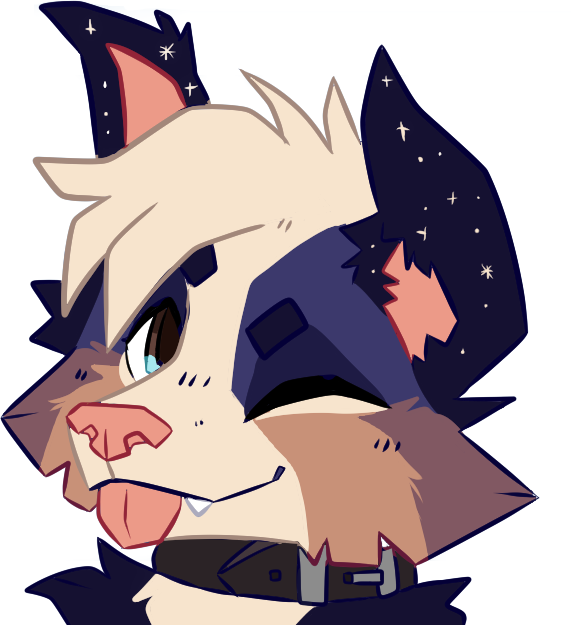
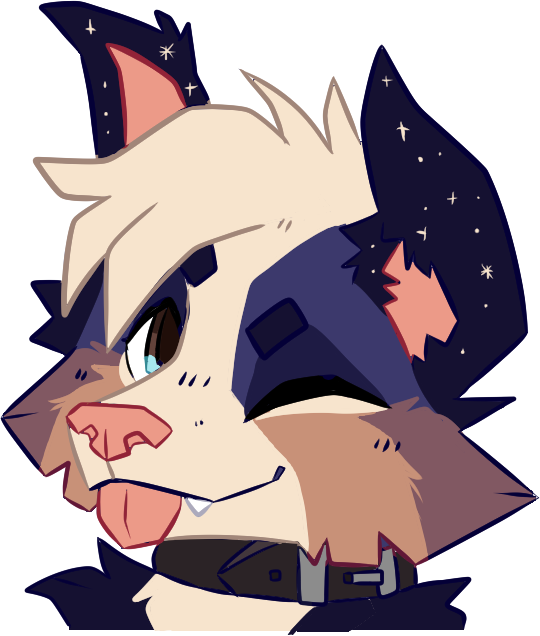
adds start menu and nsfw links

diff --git a/index.html b/index.html
@@ -21,15 +21,16 @@
 
     <span id='bottombar'>
         <span class="zooped">
-            <span class="start">START</span>
+            <a href="#startwindow" style="text-decoration: none">
+                <span class="start">START</span>
+            </a>
         </span>
     </span>
 
     <div id='container'>
 
-
         <div class="window" id="head" onmousedown='mydragg.startMoving(this,"container",event);' onmouseup='mydragg.stopMoving("container");'>
-            <div class="toolbar"><span class="title">HEADSHOT.PNG</span><a style="text-decoration: none;" href="#container"><span class="close">⨯</span></a></div>
+            <div class="toolbar"><span class="title" style="text-decoration: none">HEADSHOT.PNG</span><a style="text-decoration: none;" href="#container"><span class="close">⨯</span></a></div>
             <div class="content">
                 <img class="headimg" src="head.png" alt="">
             </div>
@@ -102,7 +103,13 @@
             <div class="toolbar"><span class="title">NSFW</span><a style="text-decoration: none;" href="#container"><span class="close">⨯</span></a></div>
             <div class="content">
                 <p>
-                    nsfw refs
+                    links to NSFW reference sheets on furAffinity
+                </p>
+                <p class="nsfwrefs">
+                    <a href="https://www.furaffinity.net/view/46474968/" style="padding-right: 5%"><img class="iconimg" src="link.png" alt="" style="display: linline"></a> masculine reference sheet
+                </p>
+                <p class="nsfwrefs">
+                    <a href="https://www.furaffinity.net/view/46474990/" style="padding-right: 5%"><img class="iconimg" src="link.png" alt="" style="display: linline; padding-right: 5%"></a> feminine reference sheet
                 </p>
                 
             </div>
@@ -124,6 +131,26 @@
             </div>
         </div>
 
+        <div class="window" id="startwindow">
+            <div class="toolbar"><span class="title">START</span><a style="text-decoration: none;" href="#container"><span class="close">⨯</span></a></div>
+                <div class="startmenu">
+                    <a href="https://twitter.com/kepwoof" class="startitem">
+                        <img src="web.png" class="iconimg" style="padding-right: 10%;"><p>twitter</p>
+                    </a>
+                    <a href="https://twitter.com/after_darker_" class="startitem">
+                        <img src="web-lock.png" class="iconimg" style="padding-right: 10%"><p>twitter AD</p>
+                    </a>
+                    <a href="https://t.me/kepwoof" class="startitem">
+                        <img src="phone.png" class="iconimg" style="padding-right: 10%"><p>telegram</p>
+                    </a>
+                    <a href="https://www.furaffinity.net/user/kepwoof/" class="startitem">
+                        <img src="art.png" class="iconimg" style="padding-right: 10%"><p>furAffinity</p>
+                    </a>
+                </div>
+                
+            
+        </div>
+
 
         <div class="icon" id="trash">
             <a href="#warning">
@@ -138,7 +165,6 @@
         </div>
         
     </div>
-    <span></span>
 
 </body>
 </html>

diff --git a/style.css b/style.css
@@ -20,6 +20,35 @@ html {background-color: #3a3a3a}
     left:5%;
   }
 
+  #startwindow {
+    visibility: hidden;
+    height: 45% !important;
+    bottom: 6%;
+    left: 0%;
+  }
+  .startmenu{
+    display: flex;
+    align-items: flex-start;
+    flex-direction: column;
+  }
+  .startitem{
+    padding-left: 5%;
+    min-width: 95%;
+    display: flex;
+    justify-content: flex-start;
+    align-items: center;
+    flex-direction: row;
+    text-decoration: none;
+    color: black;
+  }
+  #startwindow:target {
+    visibility: visible;
+    z-index: 500;
+  }
+  .startitem:hover {
+    background-color: #a5b5c2
+  }
+
 #bottombar {
     position: absolute;
     background-color: #B7CBDA;
@@ -282,7 +311,7 @@ html {background-color: #3a3a3a}
 
   .headimg {
     position: relative;
-    width: 72%;
+    width: 68%;
     padding: 2%
   }
   
@@ -309,4 +338,12 @@ html {background-color: #3a3a3a}
     padding-right: 10px;
     font-size: x-large;
     color: #003A68;
+  }
+
+  .nsfwrefs {
+    display: flex;
+    justify-content: space-between;
+    align-content: center;
+    align-items: center;
+    flex-direction: row;
   }
